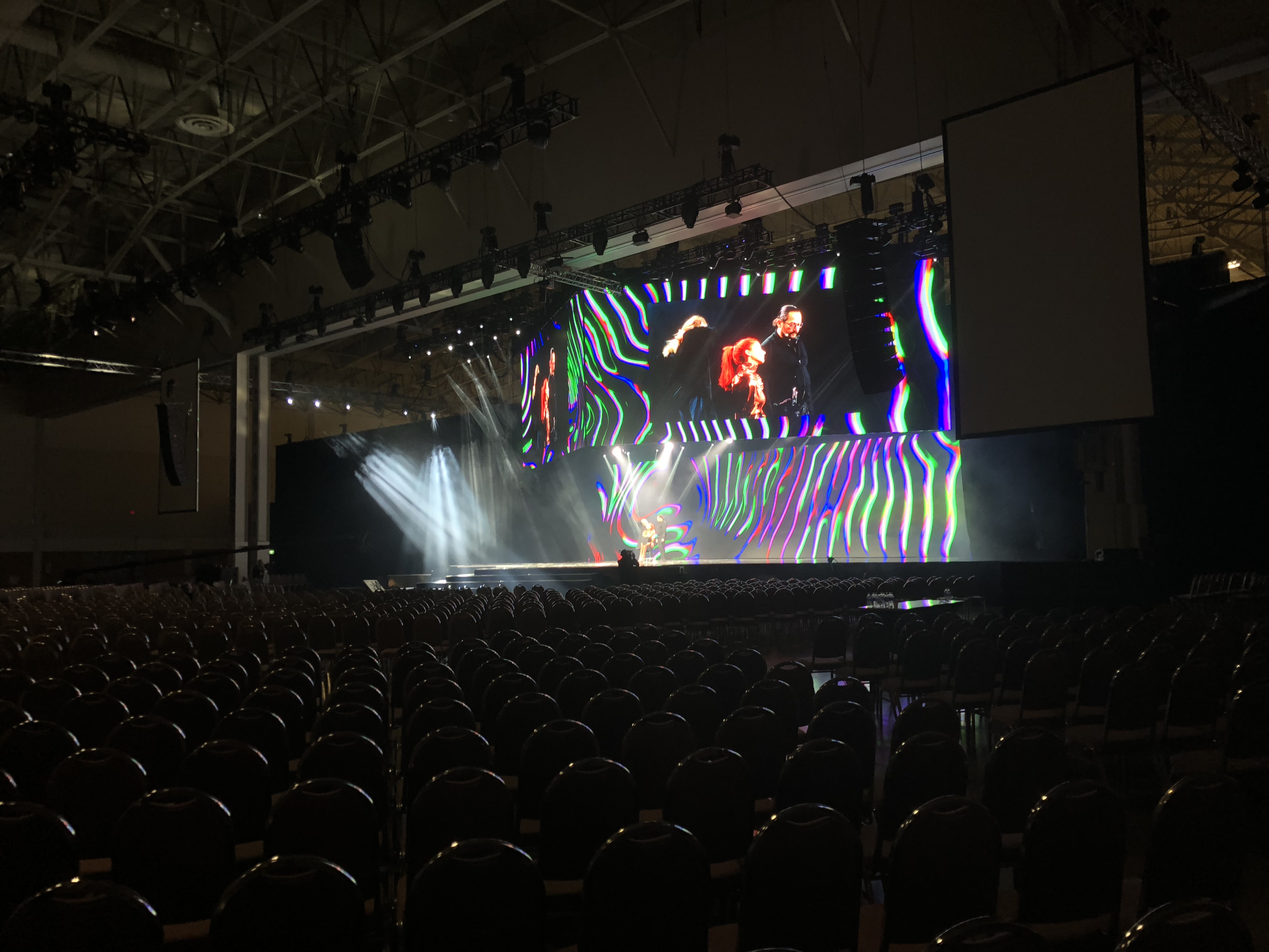
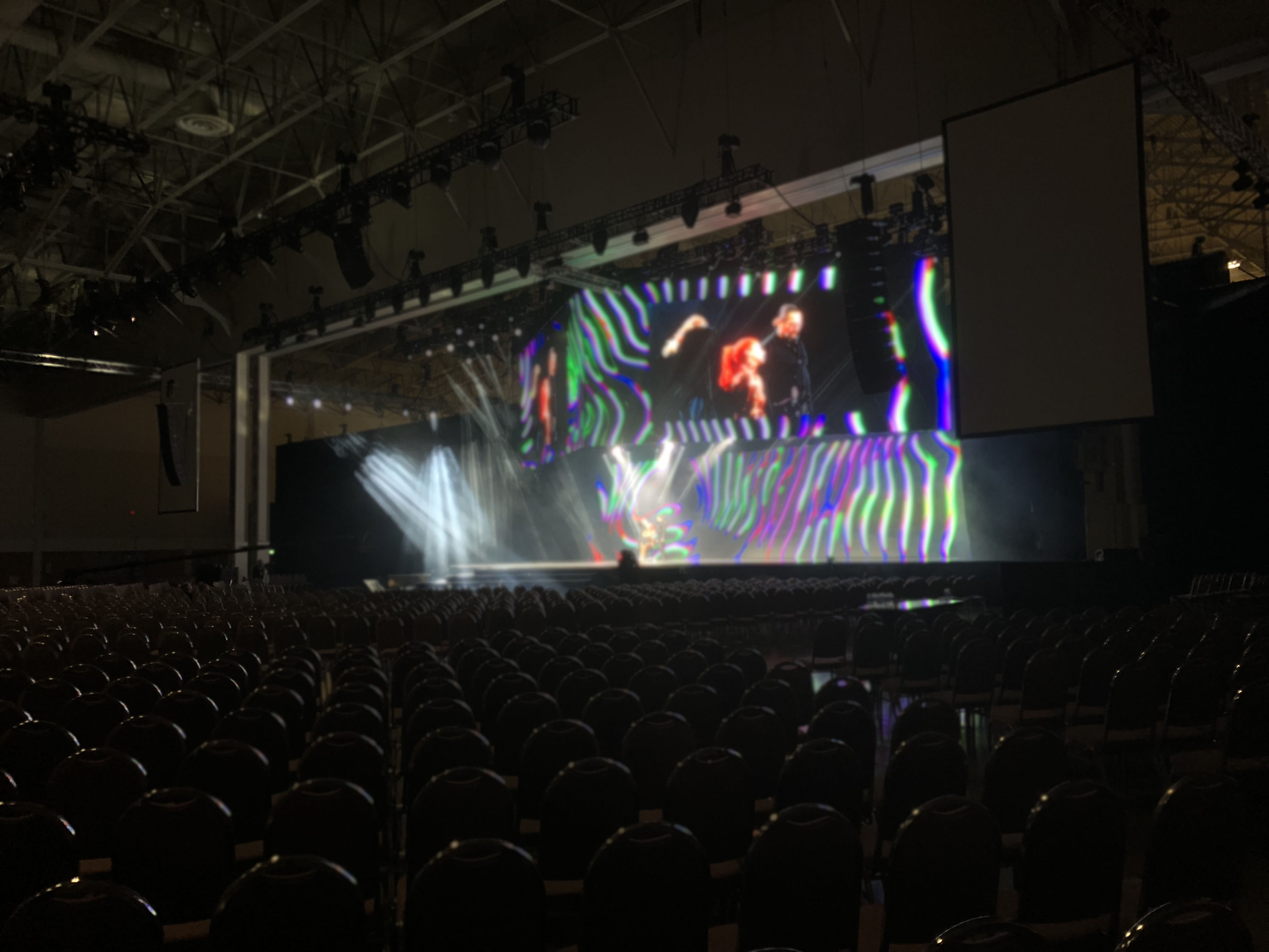
Changed big img on events.html

diff --git a/css/events.css b/css/events.css
@@ -58,7 +58,7 @@ hr{
 
 /*Events Image*/
 .big_img{
-  background: url("C:/Users/vtw14/OneDrive/Desktop/Insync/final/resources/big_img.jpg");
+  background: url("C:/Users/vtw14/OneDrive/Desktop/Insync/final/resources/big_img2.jpg");
   background-position: center;
   background-size: cover;
   position: relative;
